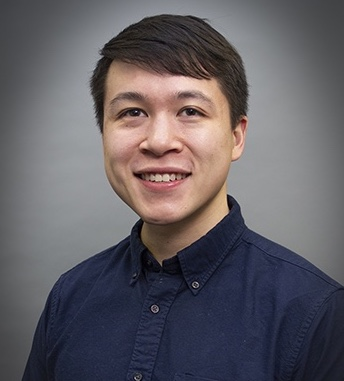
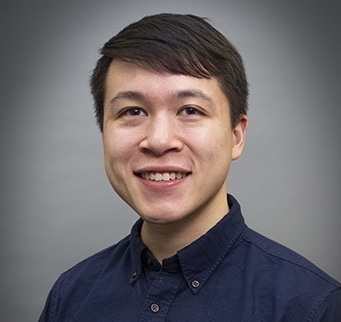
clear out old news, crop some photos

Changed region(s): [[0.0587, 0.0311, 1.0, 1.0], [0.3812, 0.9006, 0.5279, 1.0]]

diff --git a/_posts/sample-news.md b/_posts/sample-news.md
@@ -1,0 +1,7 @@
+---
+layout: post
+shortnews: true
+icon: newspaper-o
+---
+
+Template news story
